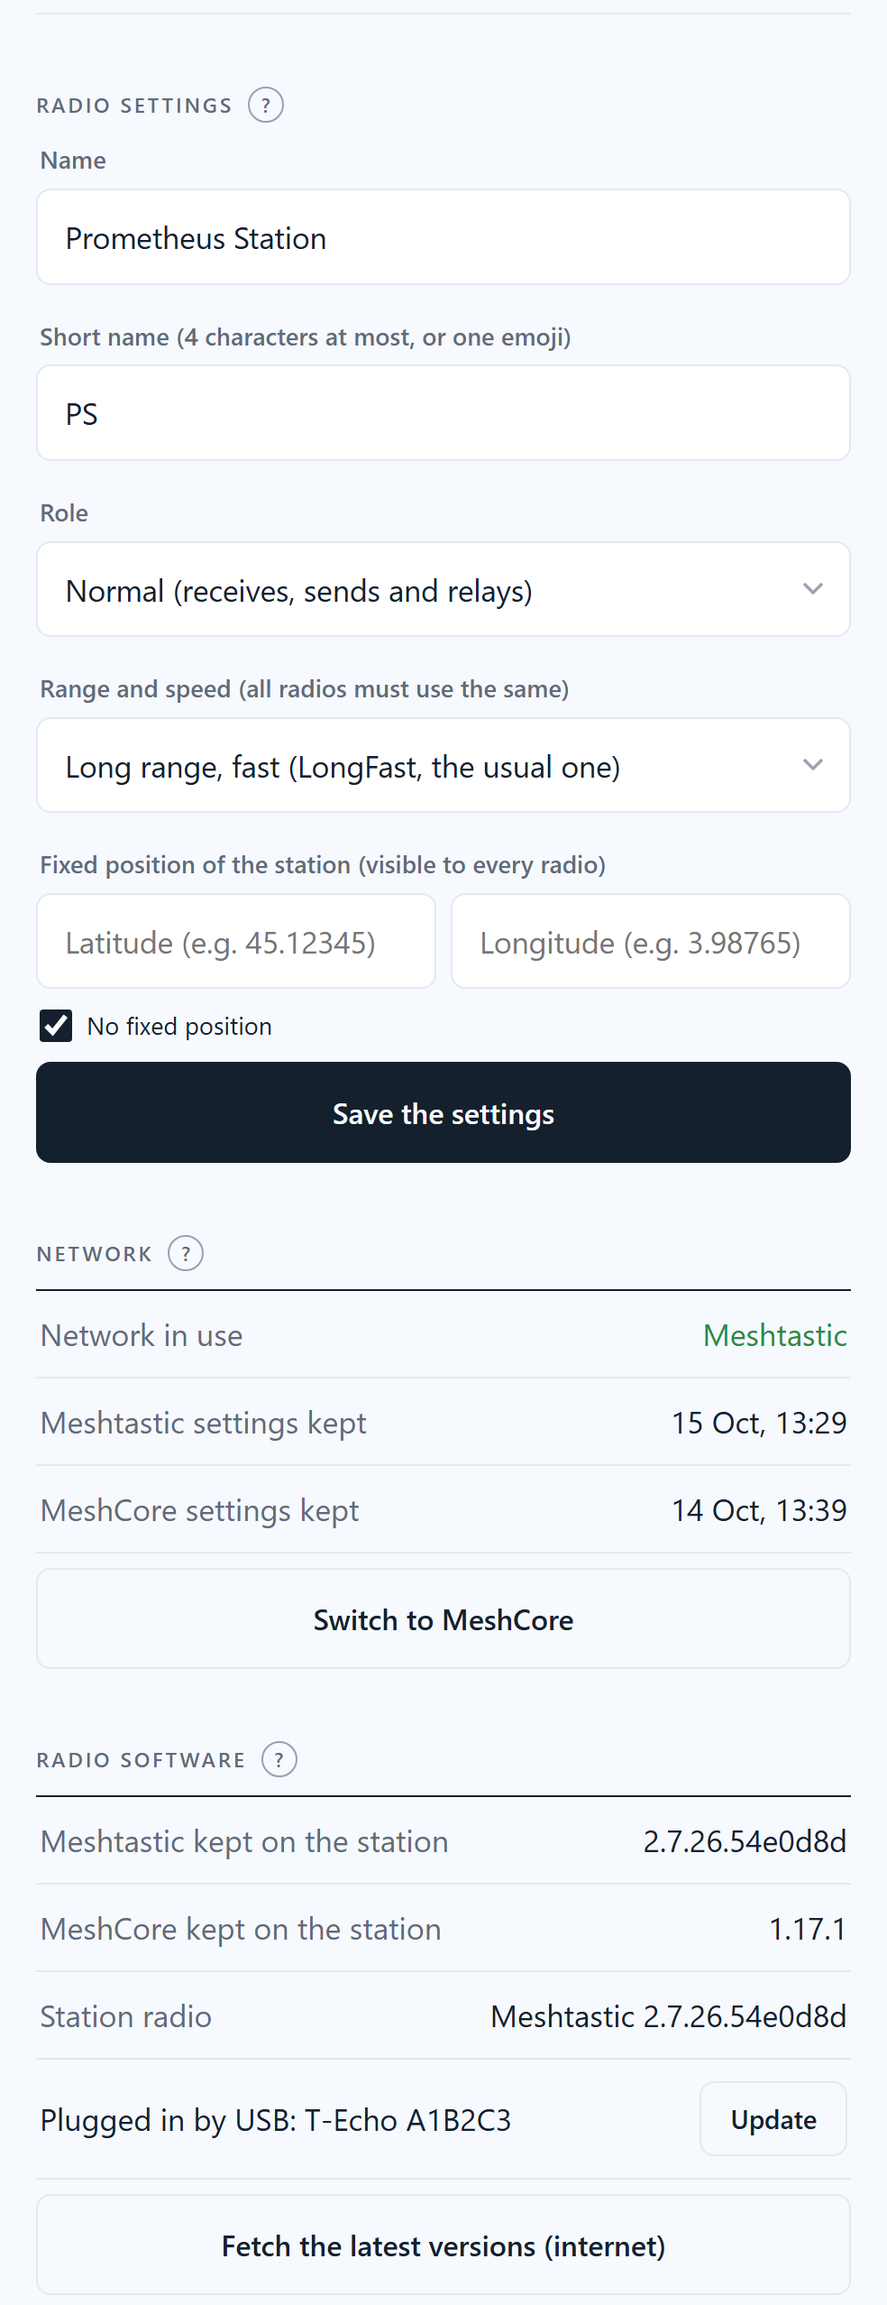
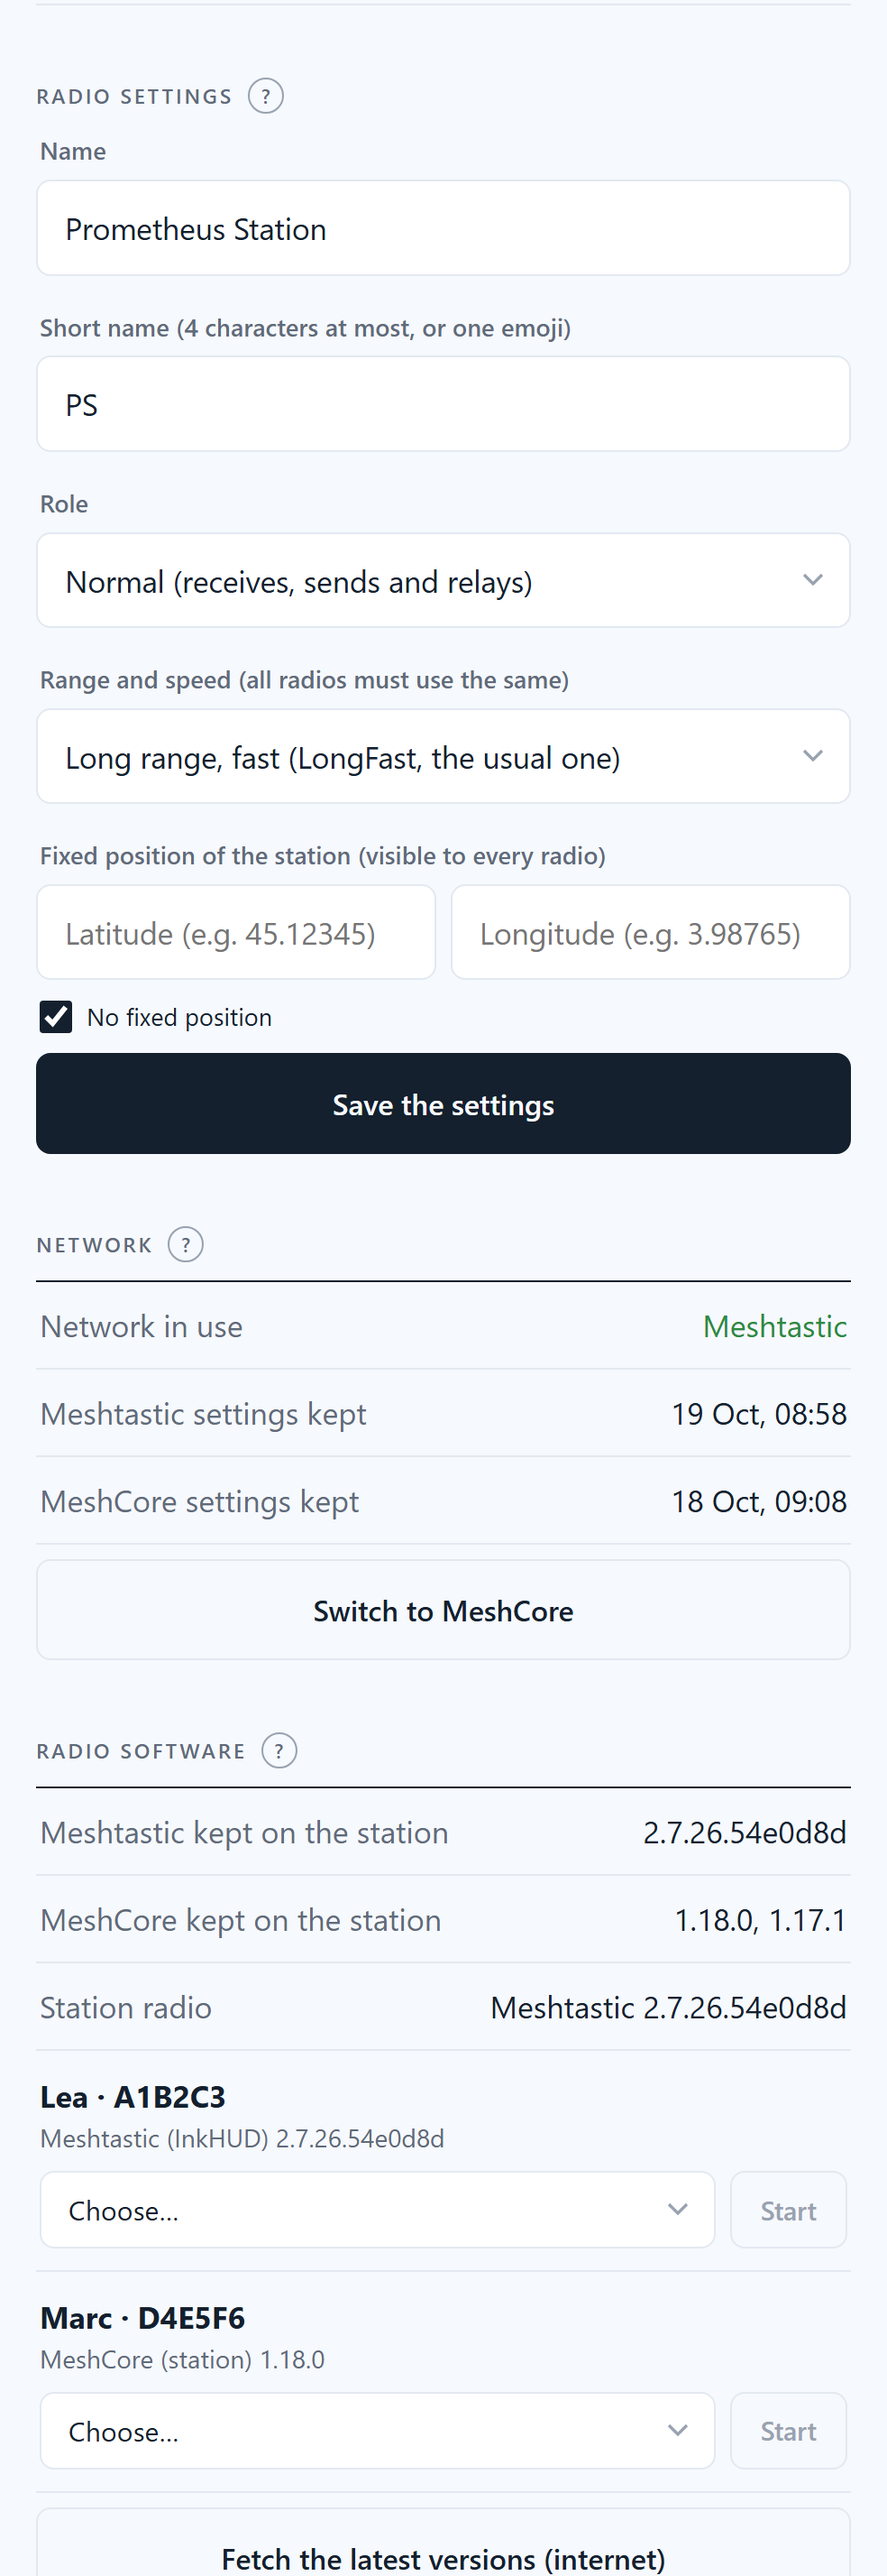
Docs: InkHUD in chapter 15 and the reference, new Radio page screenshot
- Chapter 15: the T-Echo's two Meshtastic screens (full, InkHUD), switched from
  the Radio page.
- Reference: InkHUD among what the station manages.
- Radio page screenshot: the plugged T-Echo with their software and choices.

diff --git a/docs/REFERENCE.md b/docs/REFERENCE.md
@@ -128,7 +128,7 @@ The script and program names are in French; the guide gives each one's role.
 - **the crisis test**: on battery, phone in airplane mode, no internet — Wi-Fi, home page, encyclopedias, books, messages and settings all worked ([step 13](13-crisis-test.md));
 - **Meshtastic radio** (phase 2): a T-Beam on the station, two T-Echo handhelds, all on the same Meshtastic version; the message board on the air both ways, the e-ink screen showing radio messages, long ones scrolling ([chapters 15 and 16](15-meshtastic-radios.md)). Tested indoors only.
 - **The Radio page** (October 2026): every channel, direct messages delivered and acknowledged, radio settings, the radios' software fetched and installed with their settings kept, and **two full round trips Meshtastic → MeshCore → Meshtastic**, with each network's identity kept and checked ([chapter 17](17-radio-page.md)). On MeshCore, sending and receiving tested with a second radio one metre away; range to the neighbouring MeshCore repeaters not reached yet with the short antenna indoors.
-- **The radios' software managed from the station**: the latest versions of both networks fetched every day when there is internet; the T-Beam and the T-Echo installed, updated or switched between Meshtastic, MeshCore for a phone and MeshCore for the station, each radio's settings and identity kept and checked.
+- **The radios' software managed from the station**: the latest versions of both networks fetched every day when there is internet; the T-Beam and the T-Echo installed, updated or switched between Meshtastic (full screen or the simpler InkHUD screen), MeshCore for a phone and MeshCore for the station, each radio's settings and identity kept and checked.
 - **System updates with their details on screen**, as they run.
 
 **Built, not yet tested in real conditions**

diff --git a/docs/15-meshtastic-radios.md b/docs/15-meshtastic-radios.md
@@ -113,6 +113,8 @@ Check with `--info` again: `Owner: Prometheus Station (🔥)`, `region: EU_868`.
 
 ## The T-Echo (the handhelds)
 
+> **Two screens to choose from.** Meshtastic offers the T-Echo its usual **full interface**, described below, or **InkHUD**, a simpler official interface made for e-ink screens: fewer screens, simpler navigation, same network, same settings, same identity. Here one T-Echo runs each. The station switches a plugged T-Echo from one to the other in one choice ([chapter 17](17-radio-page.md#the-t-echo-meshtastic-meshcore-for-a-phone-or-meshcore-for-the-station)). The buttons and screens described in this chapter are those of the full interface.
+
 ### Plug it in to set it up
 
 The T-Echo has its own battery: it only needs the cable to be set up, updated or charged. **Plug in one at a time**: see *Power* below.
